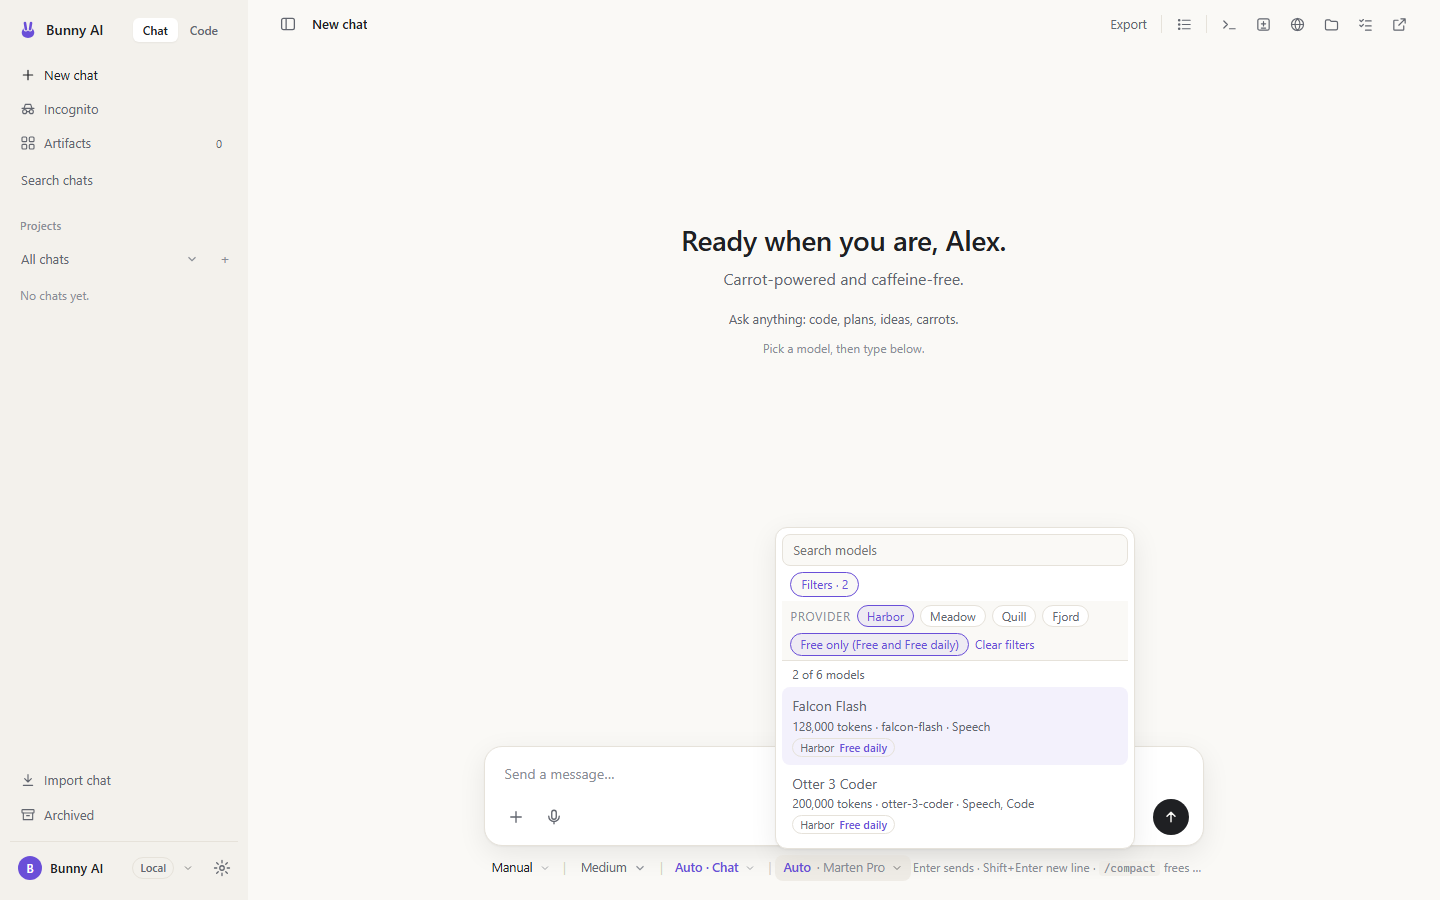
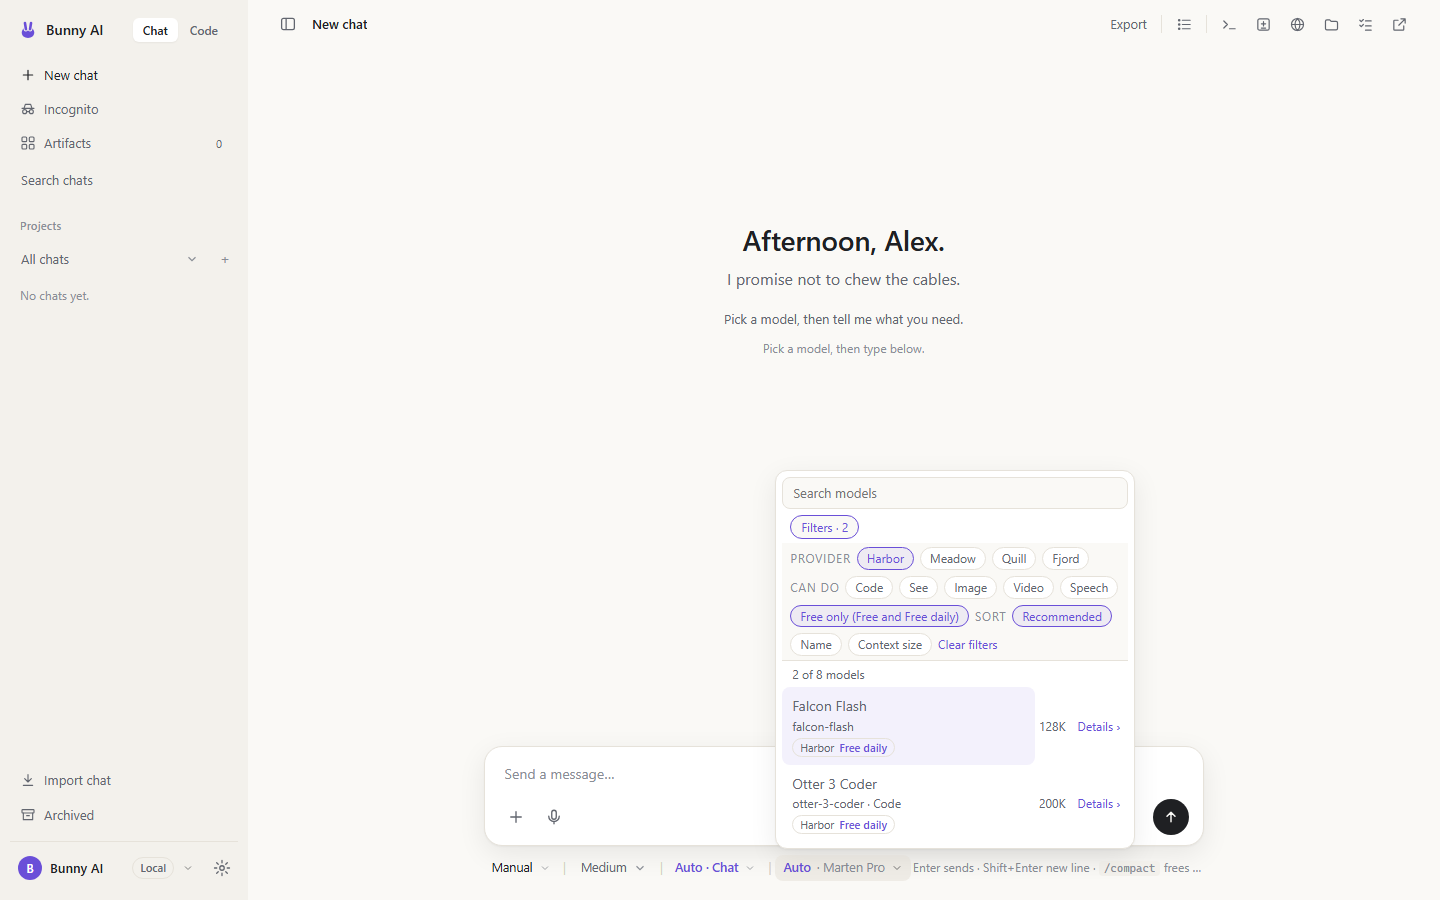
Design: W4-13 build 2ef5070 checked against 20f9c41, PASS (supersedes FAIL at 856d058)

diff --git a/docs/design/review-w413-build/README.md b/docs/design/review-w413-build/README.md
@@ -1,18 +1,18 @@
-# W4-13 slice 2 (model picker UI): build 856d058 against drawing 20f9c41
+# W4-13 model picker: build 2ef5070 against drawing 20f9c41
 
-Design, 2026-11-17. Verdict: **FAIL** (one visible defect against "one row per model", two gaps to confirm).
+Design, 2026-11-17. Verdict: **PASS** (supersedes the FAIL at 856d058).
 
-How shot: build `856d058` extracted with `git archive`, served on an invented profile (temp `BUNNY_DATA_DIR`, `BUNNY_FAKE_UPSTREAM=1`, own port, stopped after). The fake profile has no models, so `/api/models` was answered with an invented list in the browser (models Falcon Flash, Otter 3 Coder, Heron Mini, Marten Pro, Lynx Lite, Sable 7B on invented providers Harbor, Meadow, Quill, Fjord; fields as the real route sends, including `freeKind`). Real page, real picker code. Light and dark, 1440 and 390 wide: `shots/{open,filters,freeonly,free-harbor}-{light,dark}-{d,m}.png`; row text and counts are in `shots/log.txt`. Not covered: contrast not measured (UNKNOWN); the real server's model list; details panel, ordering, Thinking, Favourites and Recent, automatic switch (slices 2b and 3, out of scope).
+How shot: build `2ef5070` extracted with `git archive`, served on an invented profile (temp `BUNNY_DATA_DIR`, `BUNNY_FAKE_UPSTREAM=1`, own port, stopped after). The fake profile has no models, so `/api/models` was answered in the browser with an invented list (Falcon Flash, Otter 3 Coder, Heron Mini, Marten Pro, Lynx Lite, Owl Vision, Wren Voice, Sable 7B on invented providers Harbor, Meadow, Quill, Fjord). Real page, real picker code. Light and dark, 1440 and 390 wide: `shots/{open,filters,cando-code,sort-name,free-harbor,details}-{light,dark}-{d,m}.png`; every row's text and counts are in `shots/log.txt`. Not covered: contrast not measured (UNKNOWN); the real server's model list and the real `nativeSpeech` flags (only invented ids were used: the id `wren-realtime-audio` showed Speech, the others did not); Thinking (moved to v0.1.9) and slice 3 (automatic switch).
 
-## Matches the drawing
-- All models: one row per model with providers as tags in order, Free (Meadow) before Free daily (Harbor), then the paid tag (Quill) untagged. Same in dark and on the phone.
-- Filters button opens a strip with provider chips and "Free only (Free and Free daily)"; the button shows "Filters · 2"; "Clear filters" appears; count line "4 of 6 models", "2 of 6 models"; Free only plus provider combine with AND; Auto and "Best for" hide while filtering.
-- Phone: strip wraps, rows and tags fit at 390 px; dark theme readable.
+## The four items from the FAIL at 856d058
+1. **Best for Chat is one row per model**: Marten Pro, Otter 3 Coder, Falcon Flash, Owl Vision, Lynx Lite, each once, with all its provider tags. Fixed.
+2. **Can-do and Sort chips present**: Provider, Can do (Code, See, Image, Video, Speech), Free only, Sort (Recommended, Name, Context size). Code gives "1 of 8 models"; Name and Context size reorder All models correctly (Context size: 1M, 200K, 128K, 100K, 64K, 32K, 8K). Fixed.
+3. **Context size on the right beside "Details ›"** (1M, 200K, 128K). Fixed.
+4. **Speech only where the model makes sound itself**: only Wren Voice shows Speech; the Speech chip filters to it ("1 of 8"). Fixed.
 
-## Changes needed
-1. **"Best for Chat" still repeats models.** With invented data it lists Falcon Flash twice and Otter 3 Coder twice (one per provider), and the section is built from per-provider rows (`rankModels(...)` then `pickerItem(m,'best')`, chat.js about line 477). The drawing shows one row per model everywhere, tags carrying the providers. Fix: collapse the best-for list by model id and give those rows the same tags as All models; re-shoot.
-2. **Filters strip is missing Can-do chips and Sort** (Recommended, Name, Context size), both in the drawing and not named as out of scope. Either add them or tell Design they move to slice 2b, and I will mark them so.
-3. **Context size sits on a sub-line** ("128,000 tokens · id") instead of the right-hand side with "Default ›". The "Default ›" link belongs with the details panel (2b); the context placement is already with Builder A. Not blocking by itself.
-4. Possible, not confirmed: every invented model shows "· Speech" in its sub-line. This may come from my invented data lacking ability fields; check with a real model list before treating as a bug.
+## Also matches the drawing
+Free before Free daily before untagged tags, in order; Free only plus a provider gives "2 of 8 models" and "Filters · 2"; the Details view (Back, providers in order with Ready and up and down arrows, favourite) fits on the phone as a sheet; dark theme and 390 px readable throughout.
 
-Sign-off: FAIL until item 1 is fixed and item 2 is settled; send the new sha.
+## Notes, not blocking
+- Sort changes the All models list only; "Best for Chat" stays in recommended order. Reasonable; say so in help text if it surprises people.
+- On the phone the open filter strip takes about a third of the sheet; the list scrolls under it. Acceptable.

diff --git a/docs/signoffs/w4-13/design.md b/docs/signoffs/w4-13/design.md
@@ -1,9 +1,9 @@
 ---
 piece: w4-13
 role: design
-sha: 856d058
-verdict: FAIL
+sha: 2ef5070
+verdict: PASS
 date: 2026-11-17
 ---
 
-Slice 2: Best for Chat repeats models per provider; Can-do chips and Sort missing; see docs/design/review-w413-build/README.md
+Slice 2 re-review: one row per model in Best for, Can-do and Sort chips, context on right with Details, Speech only for native; both themes and widths; see docs/design/review-w413-build/README.md
